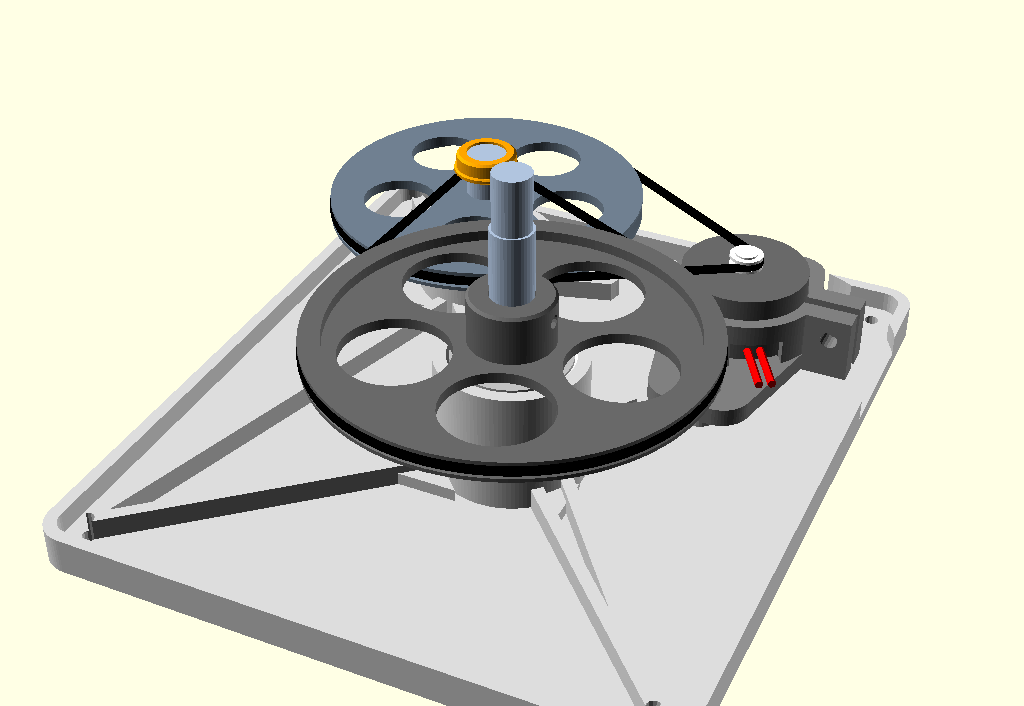
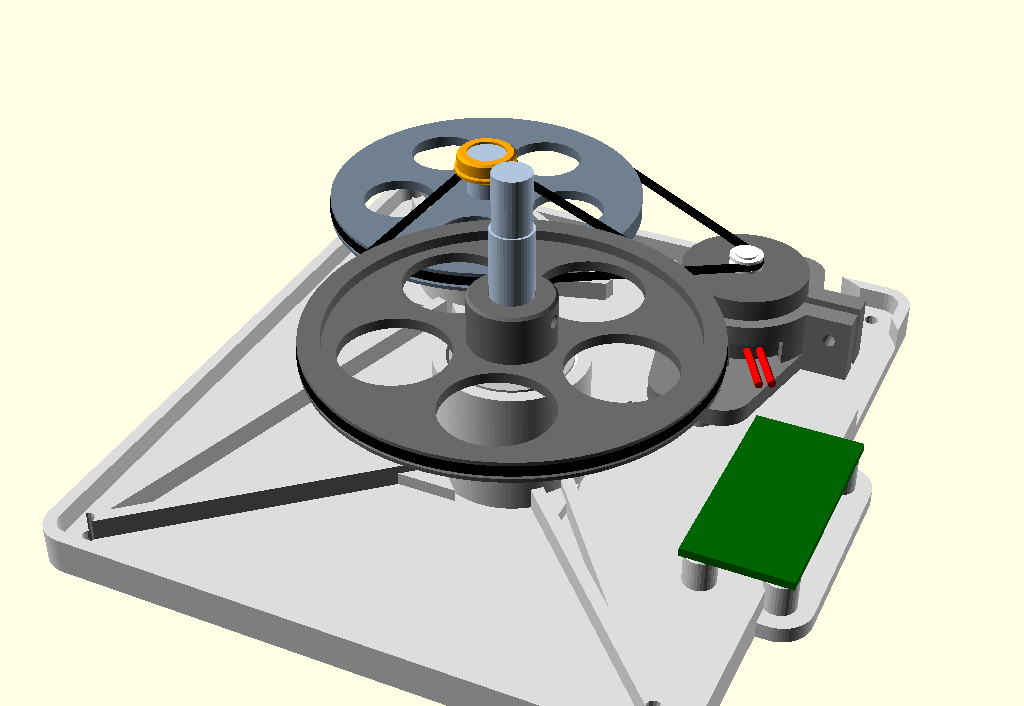
Drive module: mount for speed regulator board next to the motor

diff --git a/README.md b/README.md
@@ -209,6 +209,17 @@ ZZ-подшипники с заводской смазкой заметно то
 Если оно другое, перепечатывается только держатель, шасси не меняется.
 Провода выходят через вырез у дна стакана.
 
+Рядом с двигателем, прямо напротив выреза под провода, на шасси стоят четыре
+стойки под **плату регулятора оборотов** (около 20 x 40 мм): провода
+двигателя получаются короткими и меньше наводят на звуковой тракт. Плата
+вынесена из-под колеса вала диска, так что при снятой крышке к подстроечнику
+можно подлезть сверху. Над платой остаётся ~24 мм под детали, под ней —
+2.5 мм над рёбрами шасси под пайку выводов. Положение и отверстия задаются в
+`drive_params.scad` (`reg_pcb_pos`, `reg_pcb_holes`). Отверстия по умолчанию
+условные, их надо поправить под реальную плату — стойки сдвинутся, поддон
+это не затрагивает. Стяжной винт хомута вворачивается со стороны, обратной
+плате, чтобы плата не закрывала отвёртке подход.
+
 ![Компоновка внутри](doc/inside.png)
 
 ## Тонарм
@@ -325,7 +336,8 @@ ZZ-подшипники с заводской смазкой заметно то
 * саморезы с потайной головкой 3 x 12 — 8 шт (крышка к поддону);
 * саморезы 2.5 x 10 — 4 шт (панель), 2.5 x 12 — 5 шт (стойка и подставка
   тонарма вкручиваются изнутри корпуса), 2.5 x 8 — 4 шт (плата), ещё 2.5 x 8
-  — 6 шт (шасси модуля вращения к поддону и держатель двигателя к шасси);
+  — 6 шт (шасси модуля вращения к поддону и держатель двигателя к шасси),
+  2.5 x 6 — 4 шт (плата регулятора оборотов);
 * саморез 3 x 16 — стяжка хомута держателя двигателя;
 * винты M3: 2 шт с заточенным концом (оси качания), 4 шт стопорных (два
   колеса модуля вращения, ступица диска, противовес);
@@ -350,9 +362,11 @@ ZZ-подшипники с заводской смазкой заметно то
 2. Вал диска: надеть шайбу и колесо, поджать колесо к подшипнику (выбрать
    осевой люфт) и затянуть стопорный винт. Промвал: так же, колесо поясом
    ступицы к подшипнику, винт, колпачок на верхний конец.
-3. Двигатель — в держатель, стянуть хомут, держатель на шасси. Накинуть оба
-   пассика, натянуть первый сдвигом держателя по пазам. Проверить вращение
-   прямо на столе. Готовый модуль поставить в поддон на четыре самореза.
+3. Двигатель — в держатель, стянуть хомут, держатель на шасси. Плату
+   регулятора — на стойки рядом, провода двигателя к ней покороче. Накинуть
+   оба пассика, натянуть первый сдвигом держателя по пазам. Проверить
+   вращение прямо на столе. Готовый модуль поставить в поддон на четыре
+   самореза.
 4. Поставить платы: фонокорректор/УМ на стойки в поддоне, плату управления —
    на панельку; панельку завести в окно передней стенки.
 5. К крышке снизу привинтить стойку тонарма и подставку.
